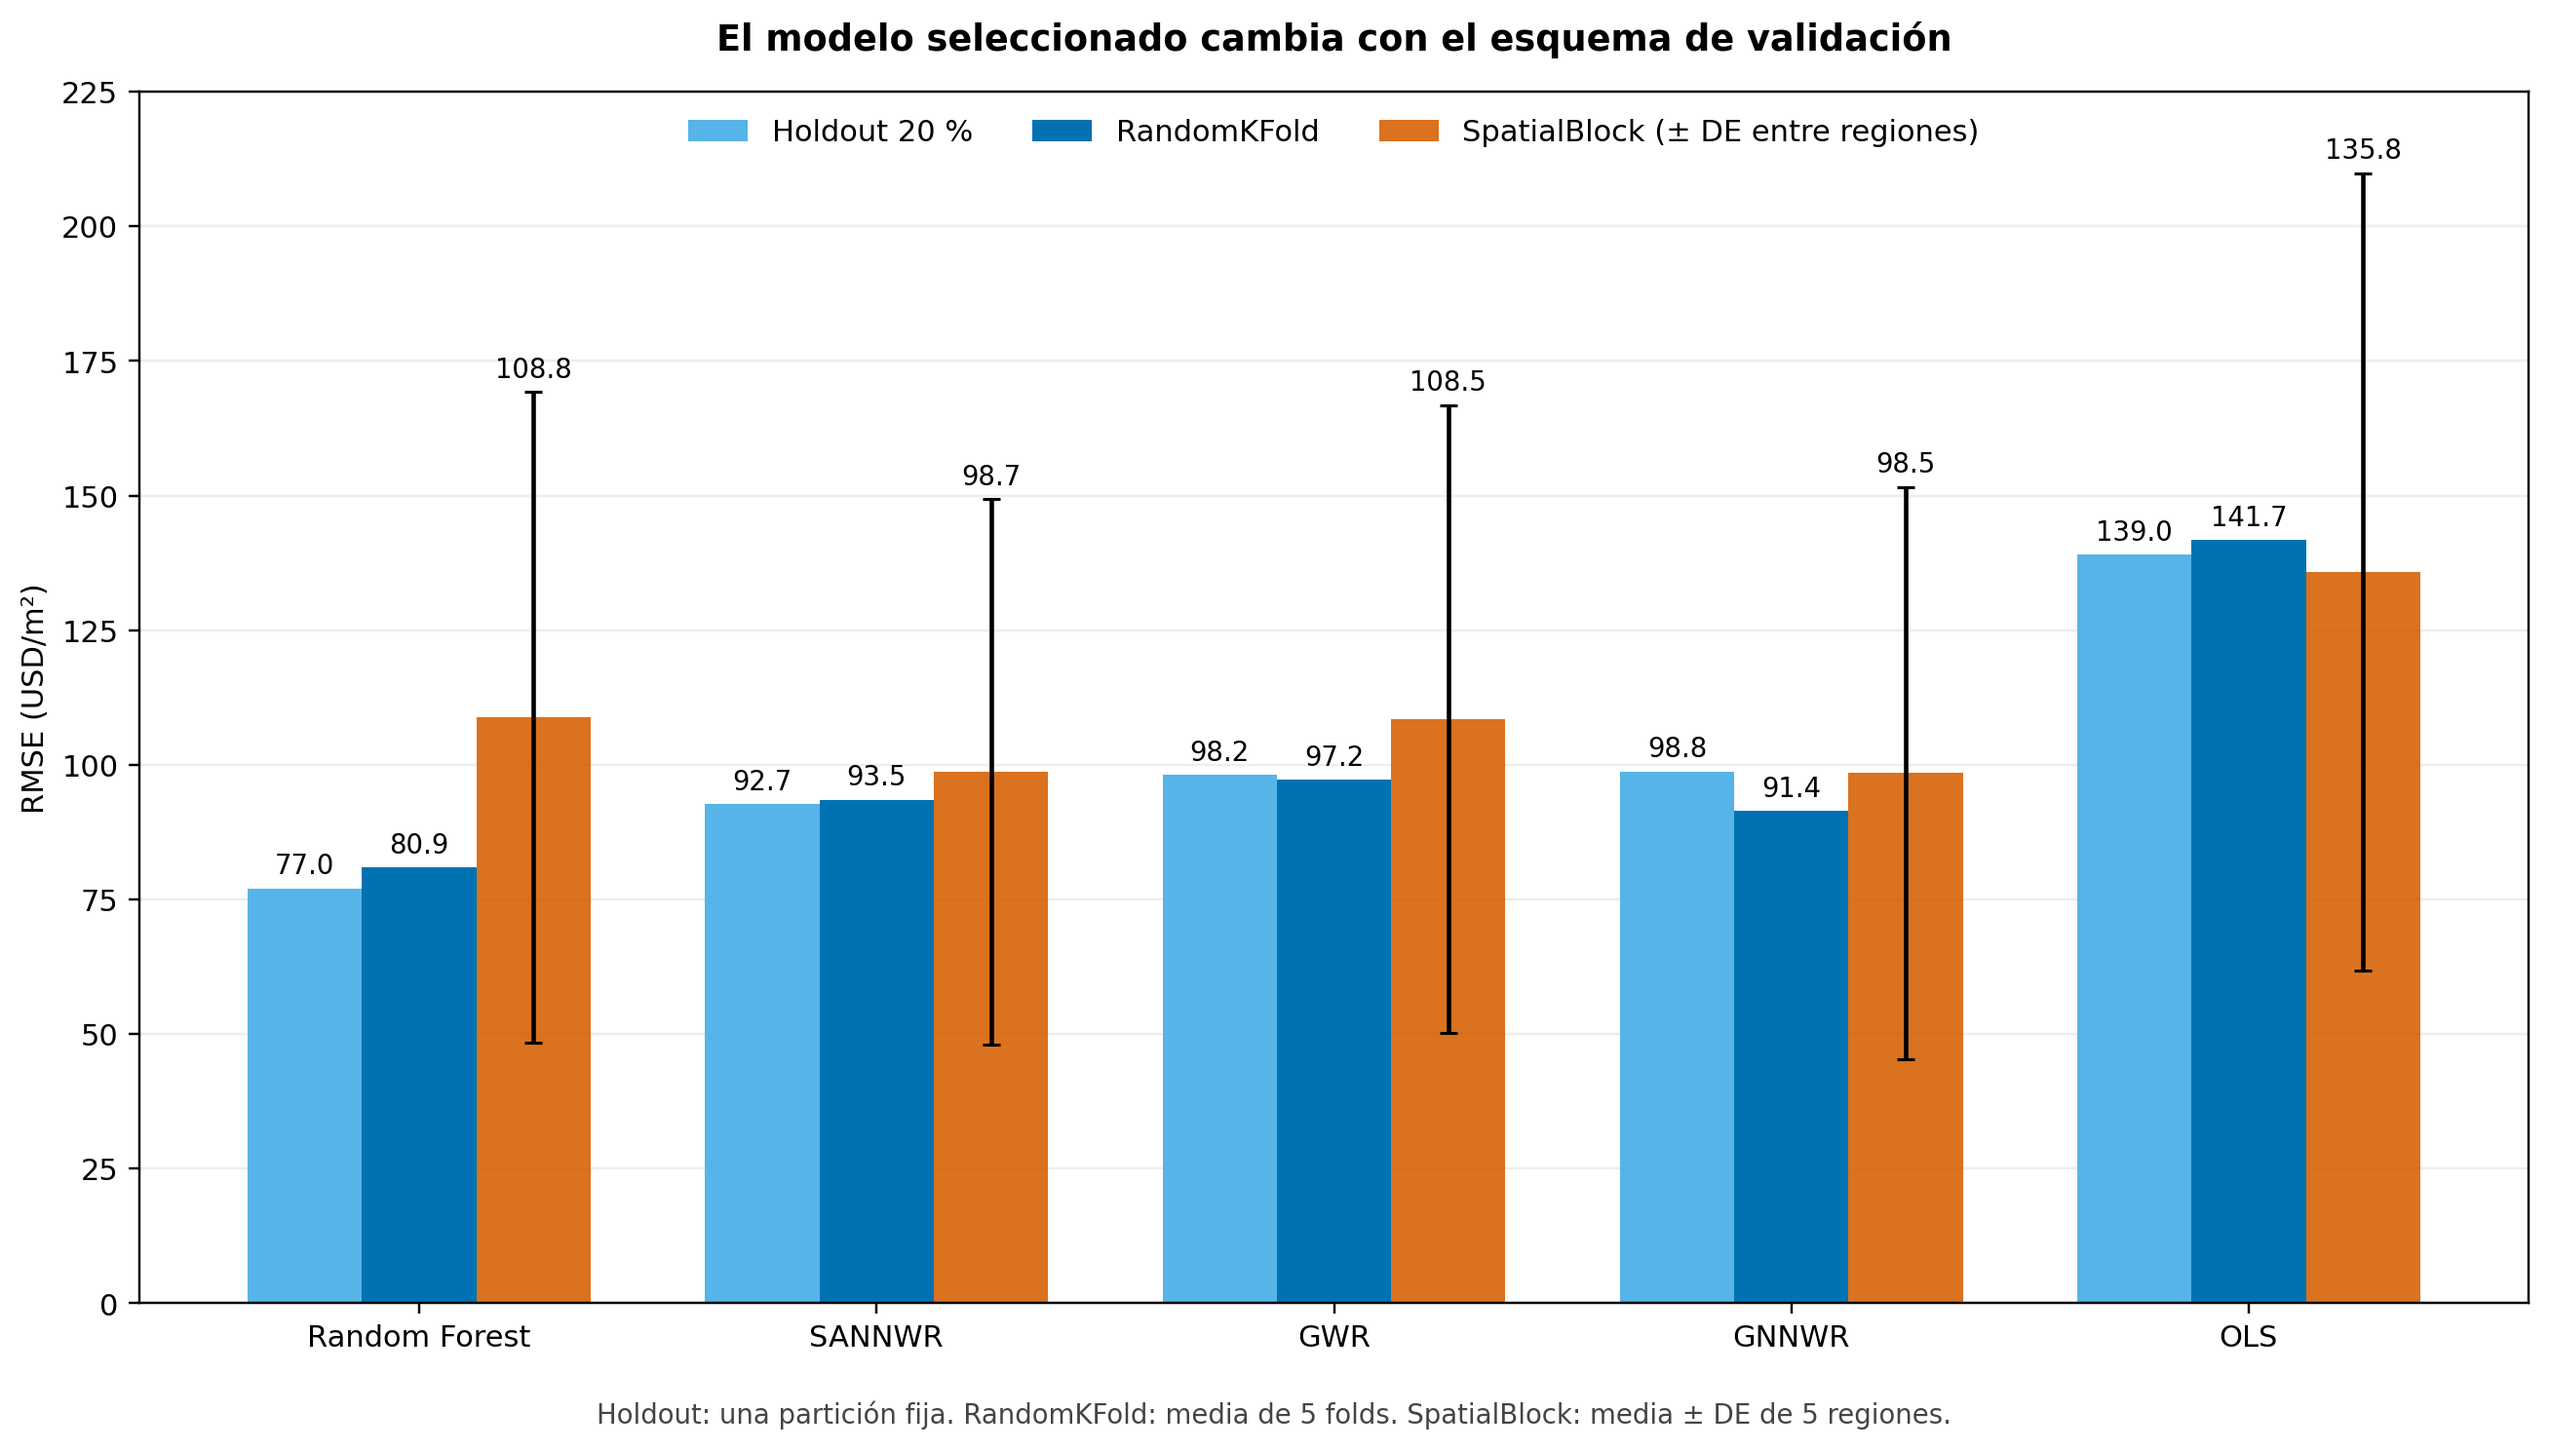
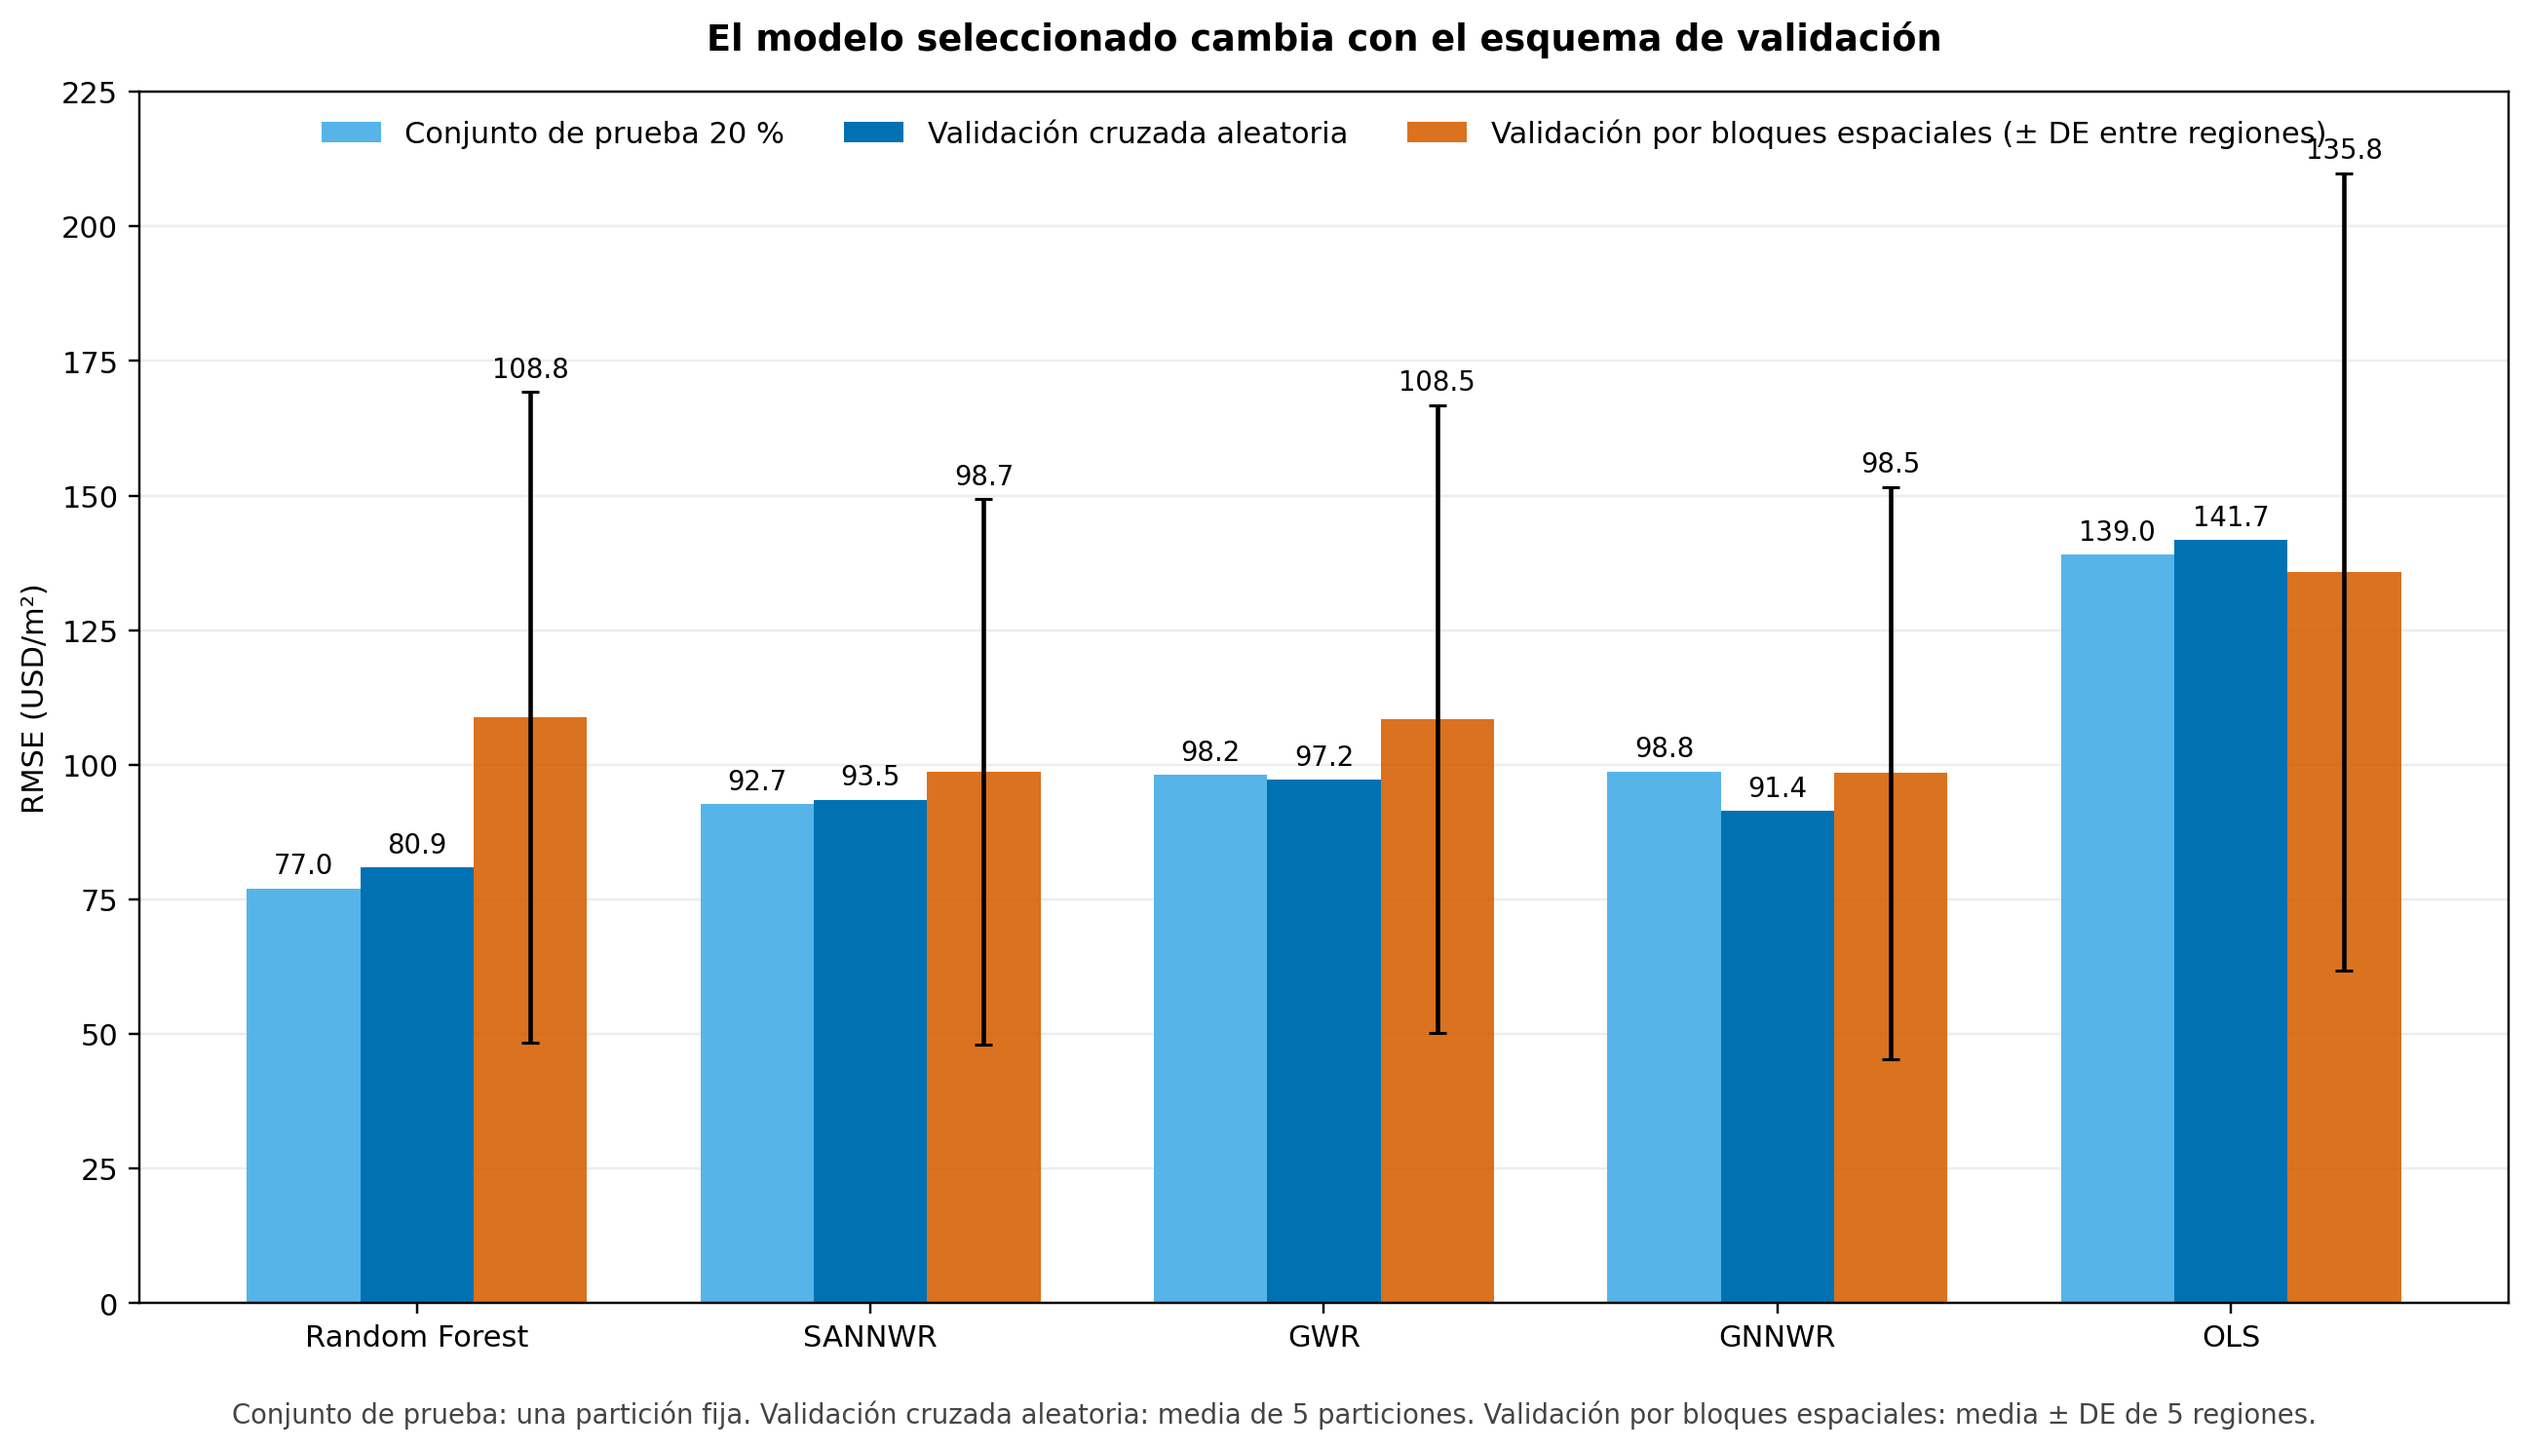
Align public terminology with final thesis

diff --git a/figures/publication/generate_summary_figures.py b/figures/publication/generate_summary_figures.py
@@ -30,24 +30,24 @@ def _ordered(path: str) -> pd.DataFrame:
 
 
 def validation_comparison() -> None:
-    holdout = _ordered("holdout.csv")
-    random_cv = _ordered("random_kfold.csv")
-    spatial = _ordered("spatial_block.csv")
+    conjunto_prueba = _ordered("conjunto_prueba.csv")
+    validacion_aleatoria = _ordered("validacion_cruzada_aleatoria.csv")
+    bloques_espaciales = _ordered("validacion_bloques_espaciales.csv")
 
     x = np.arange(len(MODEL_ORDER))
     width = 0.25
     fig, ax = plt.subplots(figsize=(12, 6.8))
 
     bars = [
-        ax.bar(x - width, holdout["rmse"], width, label="Holdout 20 %", color="#56B4E9"),
-        ax.bar(x, random_cv["rmse_mean"], width, label="RandomKFold", color="#0072B2"),
+        ax.bar(x - width, conjunto_prueba["rmse"], width, label="Conjunto de prueba 20 %", color="#56B4E9"),
+        ax.bar(x, validacion_aleatoria["rmse_mean"], width, label="Validación cruzada aleatoria", color="#0072B2"),
         ax.bar(
             x + width,
-            spatial["rmse_mean"],
+            bloques_espaciales["rmse_mean"],
             width,
-            yerr=spatial["rmse_sd_regions"],
+            yerr=bloques_espaciales["rmse_sd_regions"],
             capsize=3,
-            label="SpatialBlock (± DE entre regiones)",
+            label="Validación por bloques espaciales (± DE entre regiones)",
             color="#D55E00",
             alpha=0.88,
         ),
@@ -66,7 +66,8 @@ def validation_comparison() -> None:
     fig.text(
         0.5,
         0.015,
-        "Holdout: una partición fija. RandomKFold: media de 5 folds. SpatialBlock: media ± DE de 5 regiones.",
+        "Conjunto de prueba: una partición fija. Validación cruzada aleatoria: media de 5 particiones. "
+        "Validación por bloques espaciales: media ± DE de 5 regiones.",
         ha="center",
         fontsize=9,
         color="#444444",
@@ -77,19 +78,19 @@ def validation_comparison() -> None:
 
 
 def stability() -> None:
-    frame = pd.read_csv(RESULTS / "stability_holdout.csv")
+    frame = pd.read_csv(RESULTS / "estabilidad_conjunto_prueba.csv")
     fig, ax = plt.subplots(figsize=(8.5, 5.2))
     colors = [COLORS[name] for name in frame["model"]]
     bars = ax.barh(frame["model"], frame["rmse_mean"], xerr=frame["rmse_sd"], color=colors, capsize=4)
     ax.bar_label(bars, labels=[f"{m:.2f} ± {s:.2f}" for m, s in zip(frame["rmse_mean"], frame["rmse_sd"])], padding=5)
     ax.invert_yaxis()
     ax.set_xlim(0, 110)
-    ax.set_xlabel("RMSE en holdout (USD/m²)")
+    ax.set_xlabel("RMSE en el conjunto de prueba (USD/m²)")
     ax.set_title("Estabilidad entre diez semillas", weight="bold", pad=12)
     ax.grid(axis="x", alpha=0.22)
     ax.set_axisbelow(True)
     fig.tight_layout()
-    fig.savefig(OUTPUT / "stability_holdout.png", dpi=220, bbox_inches="tight")
+    fig.savefig(OUTPUT / "estabilidad_conjunto_prueba.png", dpi=220, bbox_inches="tight")
     plt.close(fig)
 
 

diff --git a/tests/test_public_repository.py b/tests/test_public_repository.py
@@ -38,12 +38,23 @@ class PublicRepositoryContracts(unittest.TestCase):
                 header = {column.strip().lower() for column in next(csv.reader(handle))}
             self.assertFalse(header & forbidden_columns, path.name)
 
-    def test_holdout_ranking_matches_thesis(self):
-        with (ROOT / "results" / "holdout.csv").open(encoding="utf-8", newline="") as handle:
+    def test_conjunto_prueba_ranking_matches_thesis(self):
+        with (ROOT / "results" / "conjunto_prueba.csv").open(encoding="utf-8", newline="") as handle:
             rows = list(csv.DictReader(handle))
         self.assertEqual([row["model"] for row in rows], ["Random Forest", "SANNWR", "GWR", "GNNWR", "OLS"])
         self.assertAlmostEqual(float(rows[0]["rmse"]), 76.99)
         self.assertAlmostEqual(float(rows[-1]["rmse"]), 139.01)
+
+    def test_markdown_uses_final_thesis_terminology(self):
+        forbidden = ("—", "Holdout", "holdout", "RandomKFold", "SpatialBlock", " fold", "fold ")
+        found = []
+        for path in ROOT.rglob("*.md"):
+            if ".git" in path.parts:
+                continue
+            text = path.read_text(encoding="utf-8", errors="ignore")
+            if any(term in text for term in forbidden):
+                found.append(path.relative_to(ROOT).as_posix())
+        self.assertEqual(found, [])
 
 
 if __name__ == "__main__":

diff --git a/REPRODUCIBILITY.md b/REPRODUCIBILITY.md
@@ -35,24 +35,27 @@ DMQ_DATA_DIR/
 ## Pipeline
 
 1. `data_pipeline/pipeline.py`: integra las fuentes y escribe `datos/dataset.gpkg`.
-2. `data_split/create_split.py`: genera el holdout fijo 80/20.
-3. `spatial_cv/pipeline_bloques.py`: construye los folds espaciales.
+2. `data_split/create_split.py`: genera el conjunto de prueba fijo 80/20.
+3. `spatial_cv/pipeline_bloques.py`: construye las particiones espaciales.
 4. Los scripts de `modelos/` entrenan y generan métricas.
 5. `analisis/` consolida inferencia, sensibilidad e interpretabilidad.
 6. `figures/` reconstruye las figuras a partir de las salidas.
 
 Los archivos derivados sensibles permanecen ignorados por Git.
 
-## Esquemas de evaluación
+## Esquemas principales de evaluación
 
-- Holdout 20 %: 4.040 observaciones de entrenamiento y 1.011 de prueba; interpolación interna.
-- RandomKFold: cinco particiones aleatorias sobre el conjunto de entrenamiento.
-- SpatialBlock: cinco bloques de 5.621,8 m; separación geográfica parcial.
-- SpatialBlock con buffer: análisis exploratorio con exclusión mínima de 2.530 m alrededor del test.
+- Conjunto de prueba del 20 %: 4.040 observaciones de entrenamiento y 1.011 de prueba; interpolación interna.
+- Validación cruzada aleatoria: cinco particiones sobre el conjunto de entrenamiento.
+- Validación por bloques espaciales: cinco bloques de 5.621,8 m; separación geográfica parcial.
+
+### Análisis exploratorio de separación estricta
+
+El código conserva un análisis complementario con una zona de exclusión mínima de 2.530 m alrededor de cada región de prueba. Este escenario no constituye un cuarto esquema principal ni alimenta las tablas finales de comparación. En la tesis definitiva, 2.530 m se utiliza como tamaño de celda del remuestreo espacial empleado para estimar intervalos de confianza.
 
 ## Semillas
 
-- Holdout, diez réplicas: `42, 2011, 456, 777, 2026, 99, 1234, 888, 314, 7`.
+- Conjunto de prueba, diez réplicas: `42, 2011, 456, 777, 2026, 99, 1234, 888, 314, 7`.
 - Validación cruzada neuronal, cinco réplicas: `42, 2011, 456, 777, 2026`.
 - Random Forest canónico: `42`.
 

diff --git a/docs/MODEL_CARD.md b/docs/MODEL_CARD.md
@@ -1,4 +1,4 @@
-# Model card
+# Ficha de modelos
 
 ## Propósito
 
@@ -7,7 +7,7 @@ Comparar modelos de predicción del precio de oferta del suelo urbano bajo inter
 ## Modelos focales
 
 - OLS: referencia lineal global.
-- GWR: regresión local con bandwidth seleccionado dentro de cada fold e intercepto no penalizado.
+- GWR: regresión local con ancho de banda seleccionado dentro de cada partición e intercepto no penalizado.
 - Random Forest: control tabular no espacial fuerte.
 - GNNWR: red que aprende pesos a partir de la proximidad geográfica.
 - SANNWR: ponderación neuronal espacial y atributiva con `alpha=0.5`.
@@ -33,7 +33,7 @@ Comparar modelos de predicción del precio de oferta del suelo urbano bajo inter
 - Multicolinealidad severa entre variables de accesibilidad.
 - Autocorrelación residual significativa en todos los modelos focales.
 - Tendencia a subestimar sectores de mayor valor.
-- El holdout fue reutilizado durante el desarrollo y se interpreta como evidencia descriptiva interna.
+- El conjunto de prueba fue reutilizado durante el desarrollo y se interpreta como evidencia descriptiva interna.
 
 ## Revisión humana
 

diff --git a/results/README.md b/results/README.md
@@ -2,6 +2,8 @@
 
 Los CSV del nivel superior son las tablas canónicas de la tesis definitiva. `raw/` contiene métricas agregadas que respaldan esos resúmenes; se excluyen todas las predicciones, coordenadas, claves y errores individuales.
 
-La desviación de SpatialBlock en `spatial_block.csv` mide heterogeneidad entre cinco regiones. La estabilidad entre semillas se informa por separado en `stability_holdout.csv`.
+La desviación de la validación por bloques espaciales en `validacion_bloques_espaciales.csv` mide la heterogeneidad entre cinco regiones. La estabilidad entre semillas del conjunto de prueba se informa por separado en `estabilidad_conjunto_prueba.csv`.
+
+Las demás tablas canónicas son `conjunto_prueba.csv`, `validacion_cruzada_aleatoria.csv` y `moran_conjunto_prueba.csv`.
 
 Las figuras públicas se regeneran exclusivamente desde estas tablas mediante `figures/publication/generate_summary_figures.py`. No contienen geometrías ni resultados por observación.

diff --git a/SECURITY.md b/SECURITY.md
@@ -1,5 +1,5 @@
-# Security and sensitive-data reporting
+# Seguridad y reporte de datos sensibles
 
-This repository must not contain cadastral identifiers, point-level coordinates, market observations, individual predictions, credentials, or restricted municipal layers.
+Este repositorio no debe contener identificadores catastrales, coordenadas individuales, observaciones del estudio de mercado, predicciones por predio, credenciales ni capas municipales restringidas.
 
-If you find accidentally published sensitive material, do not open a public issue. Use GitHub's private vulnerability reporting for this repository or contact the repository owner privately through their GitHub profile.
+Si encuentra material sensible publicado por error, no abra una incidencia pública. Utilice el reporte privado de vulnerabilidades de GitHub para este repositorio o contacte en privado al propietario mediante su perfil de GitHub.

diff --git a/DATA_AVAILABILITY.md b/DATA_AVAILABILITY.md
@@ -43,4 +43,4 @@ Los archivos excluidos incluyen:
 - mapas o tablas que permitan reconstruir ubicaciones individuales;
 - capas fuente GDB, SHP, TIF y productos intermedios.
 
-Los CSV publicados en `results/` contienen únicamente métricas agregadas por modelo, estrategia, semilla o fold.
+Los CSV publicados en `results/` contienen únicamente métricas agregadas por modelo, estrategia, semilla o partición.
